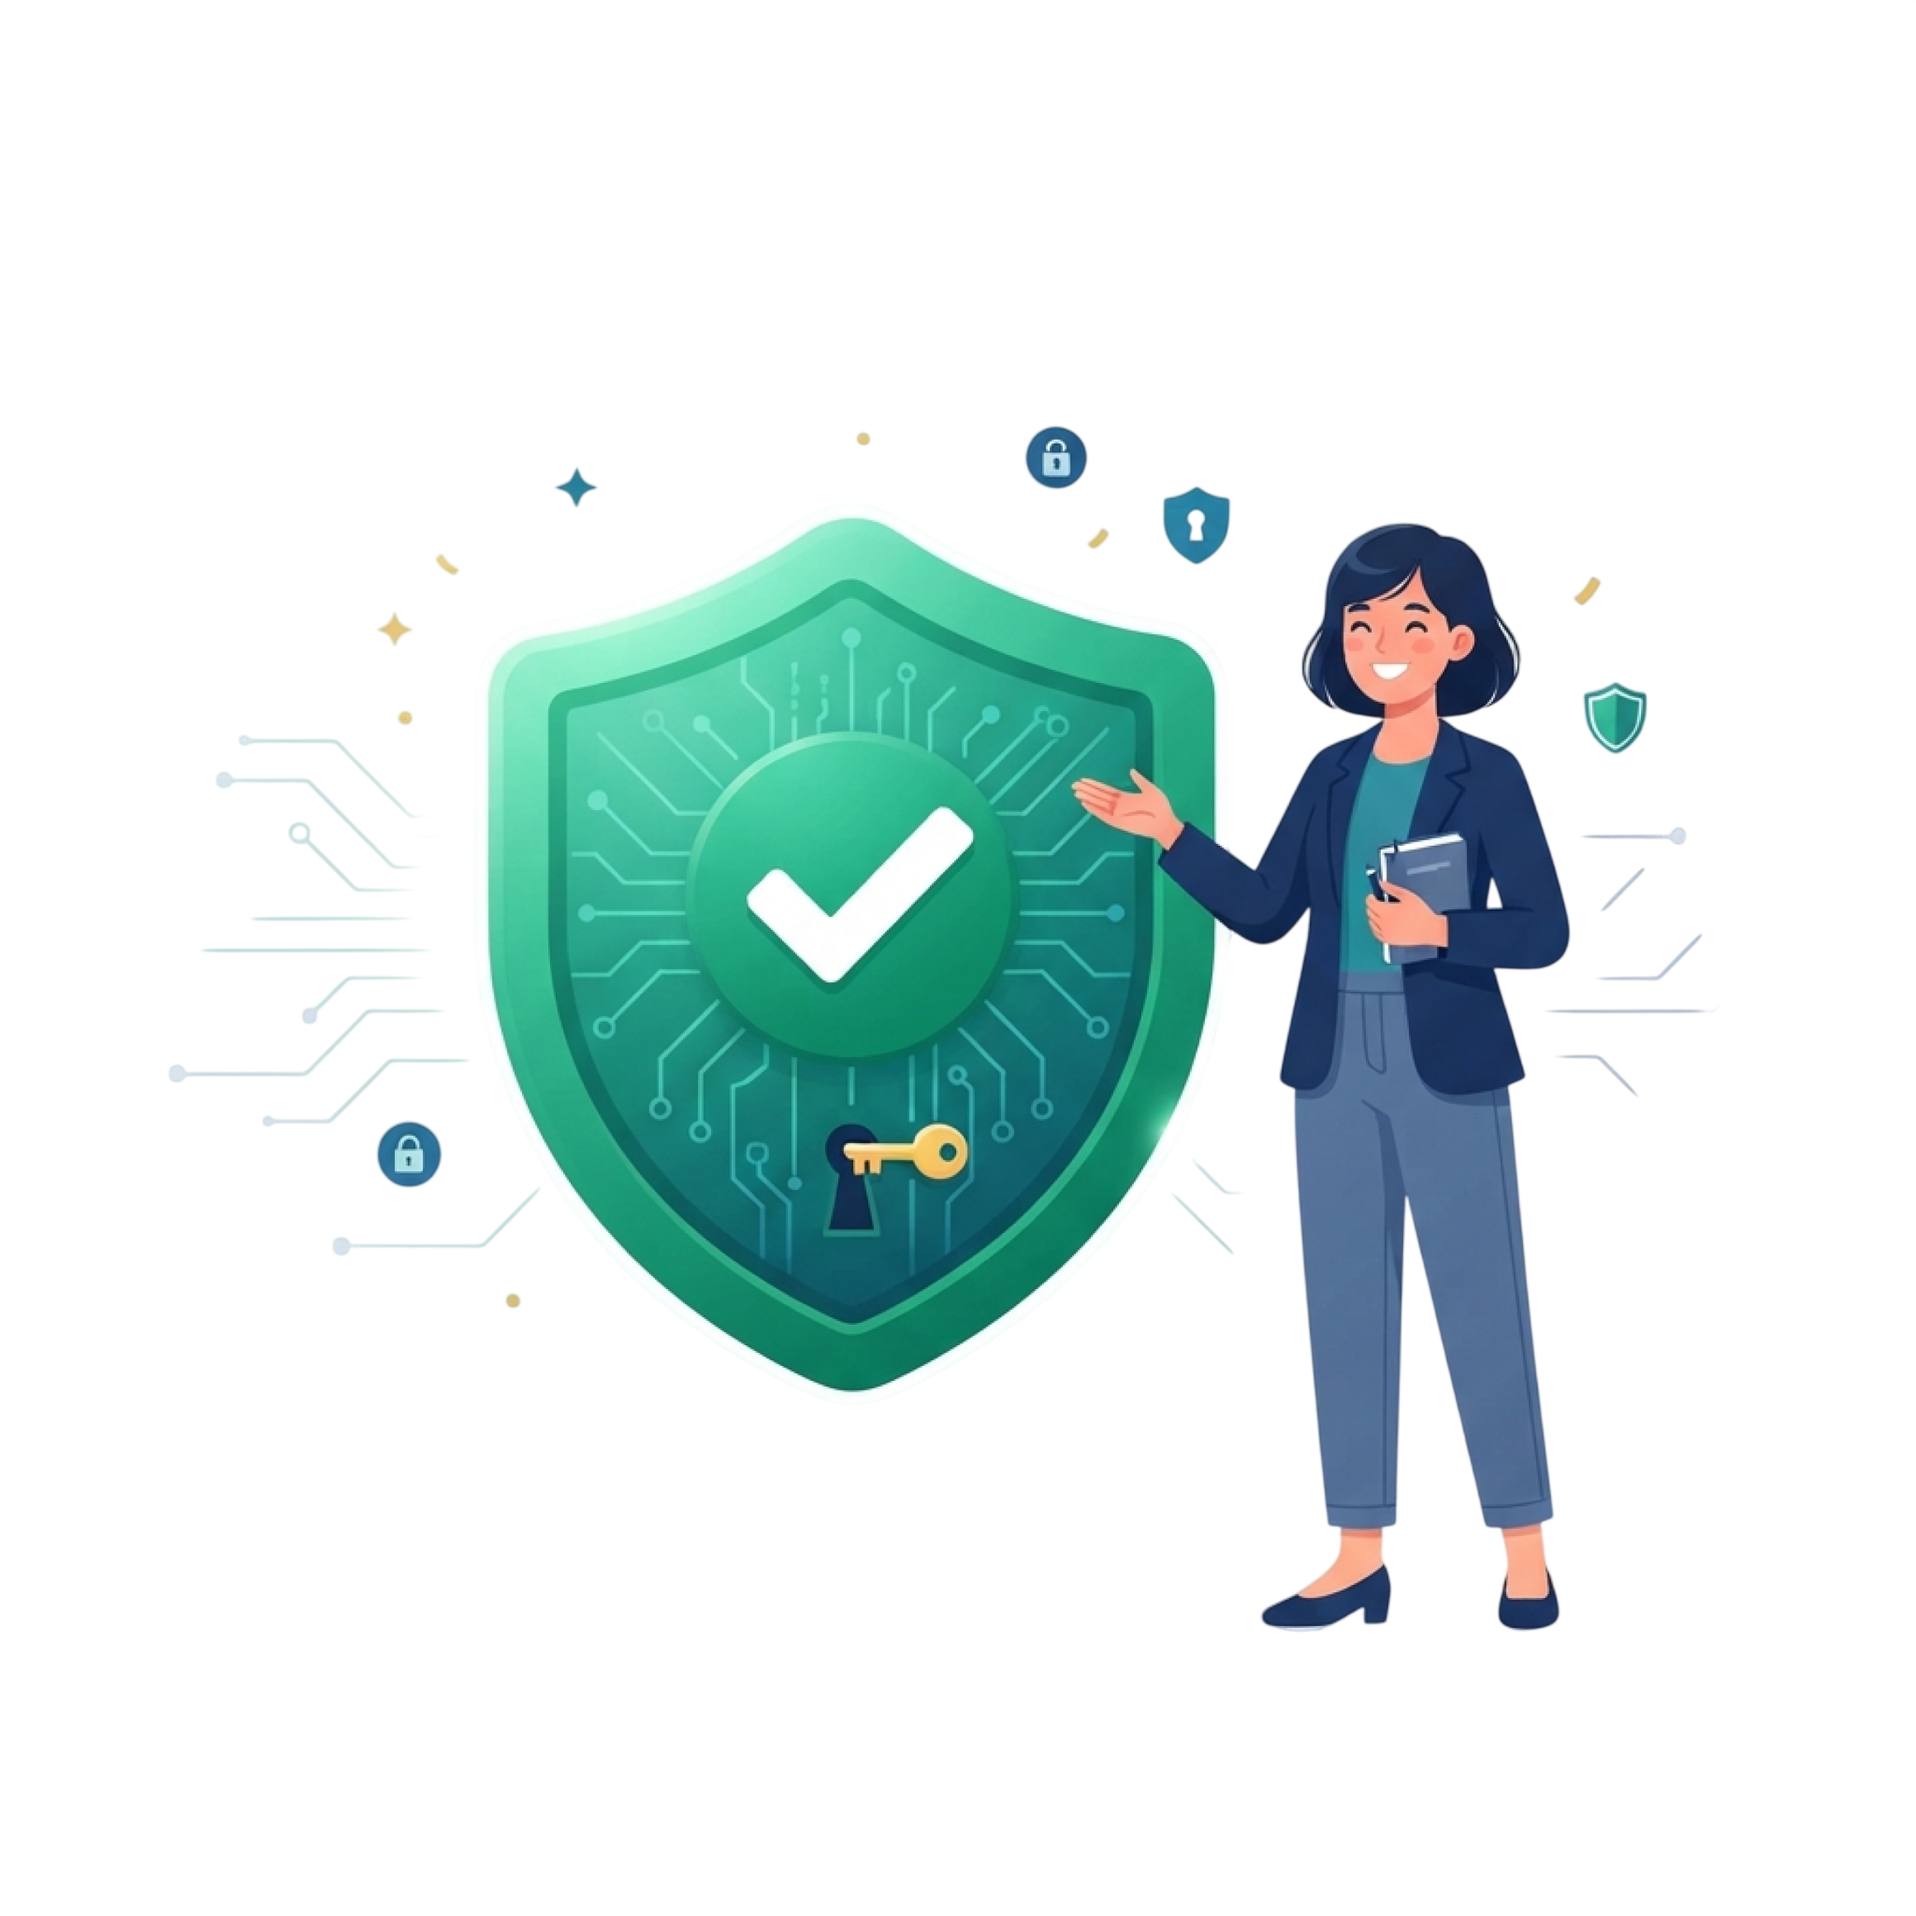
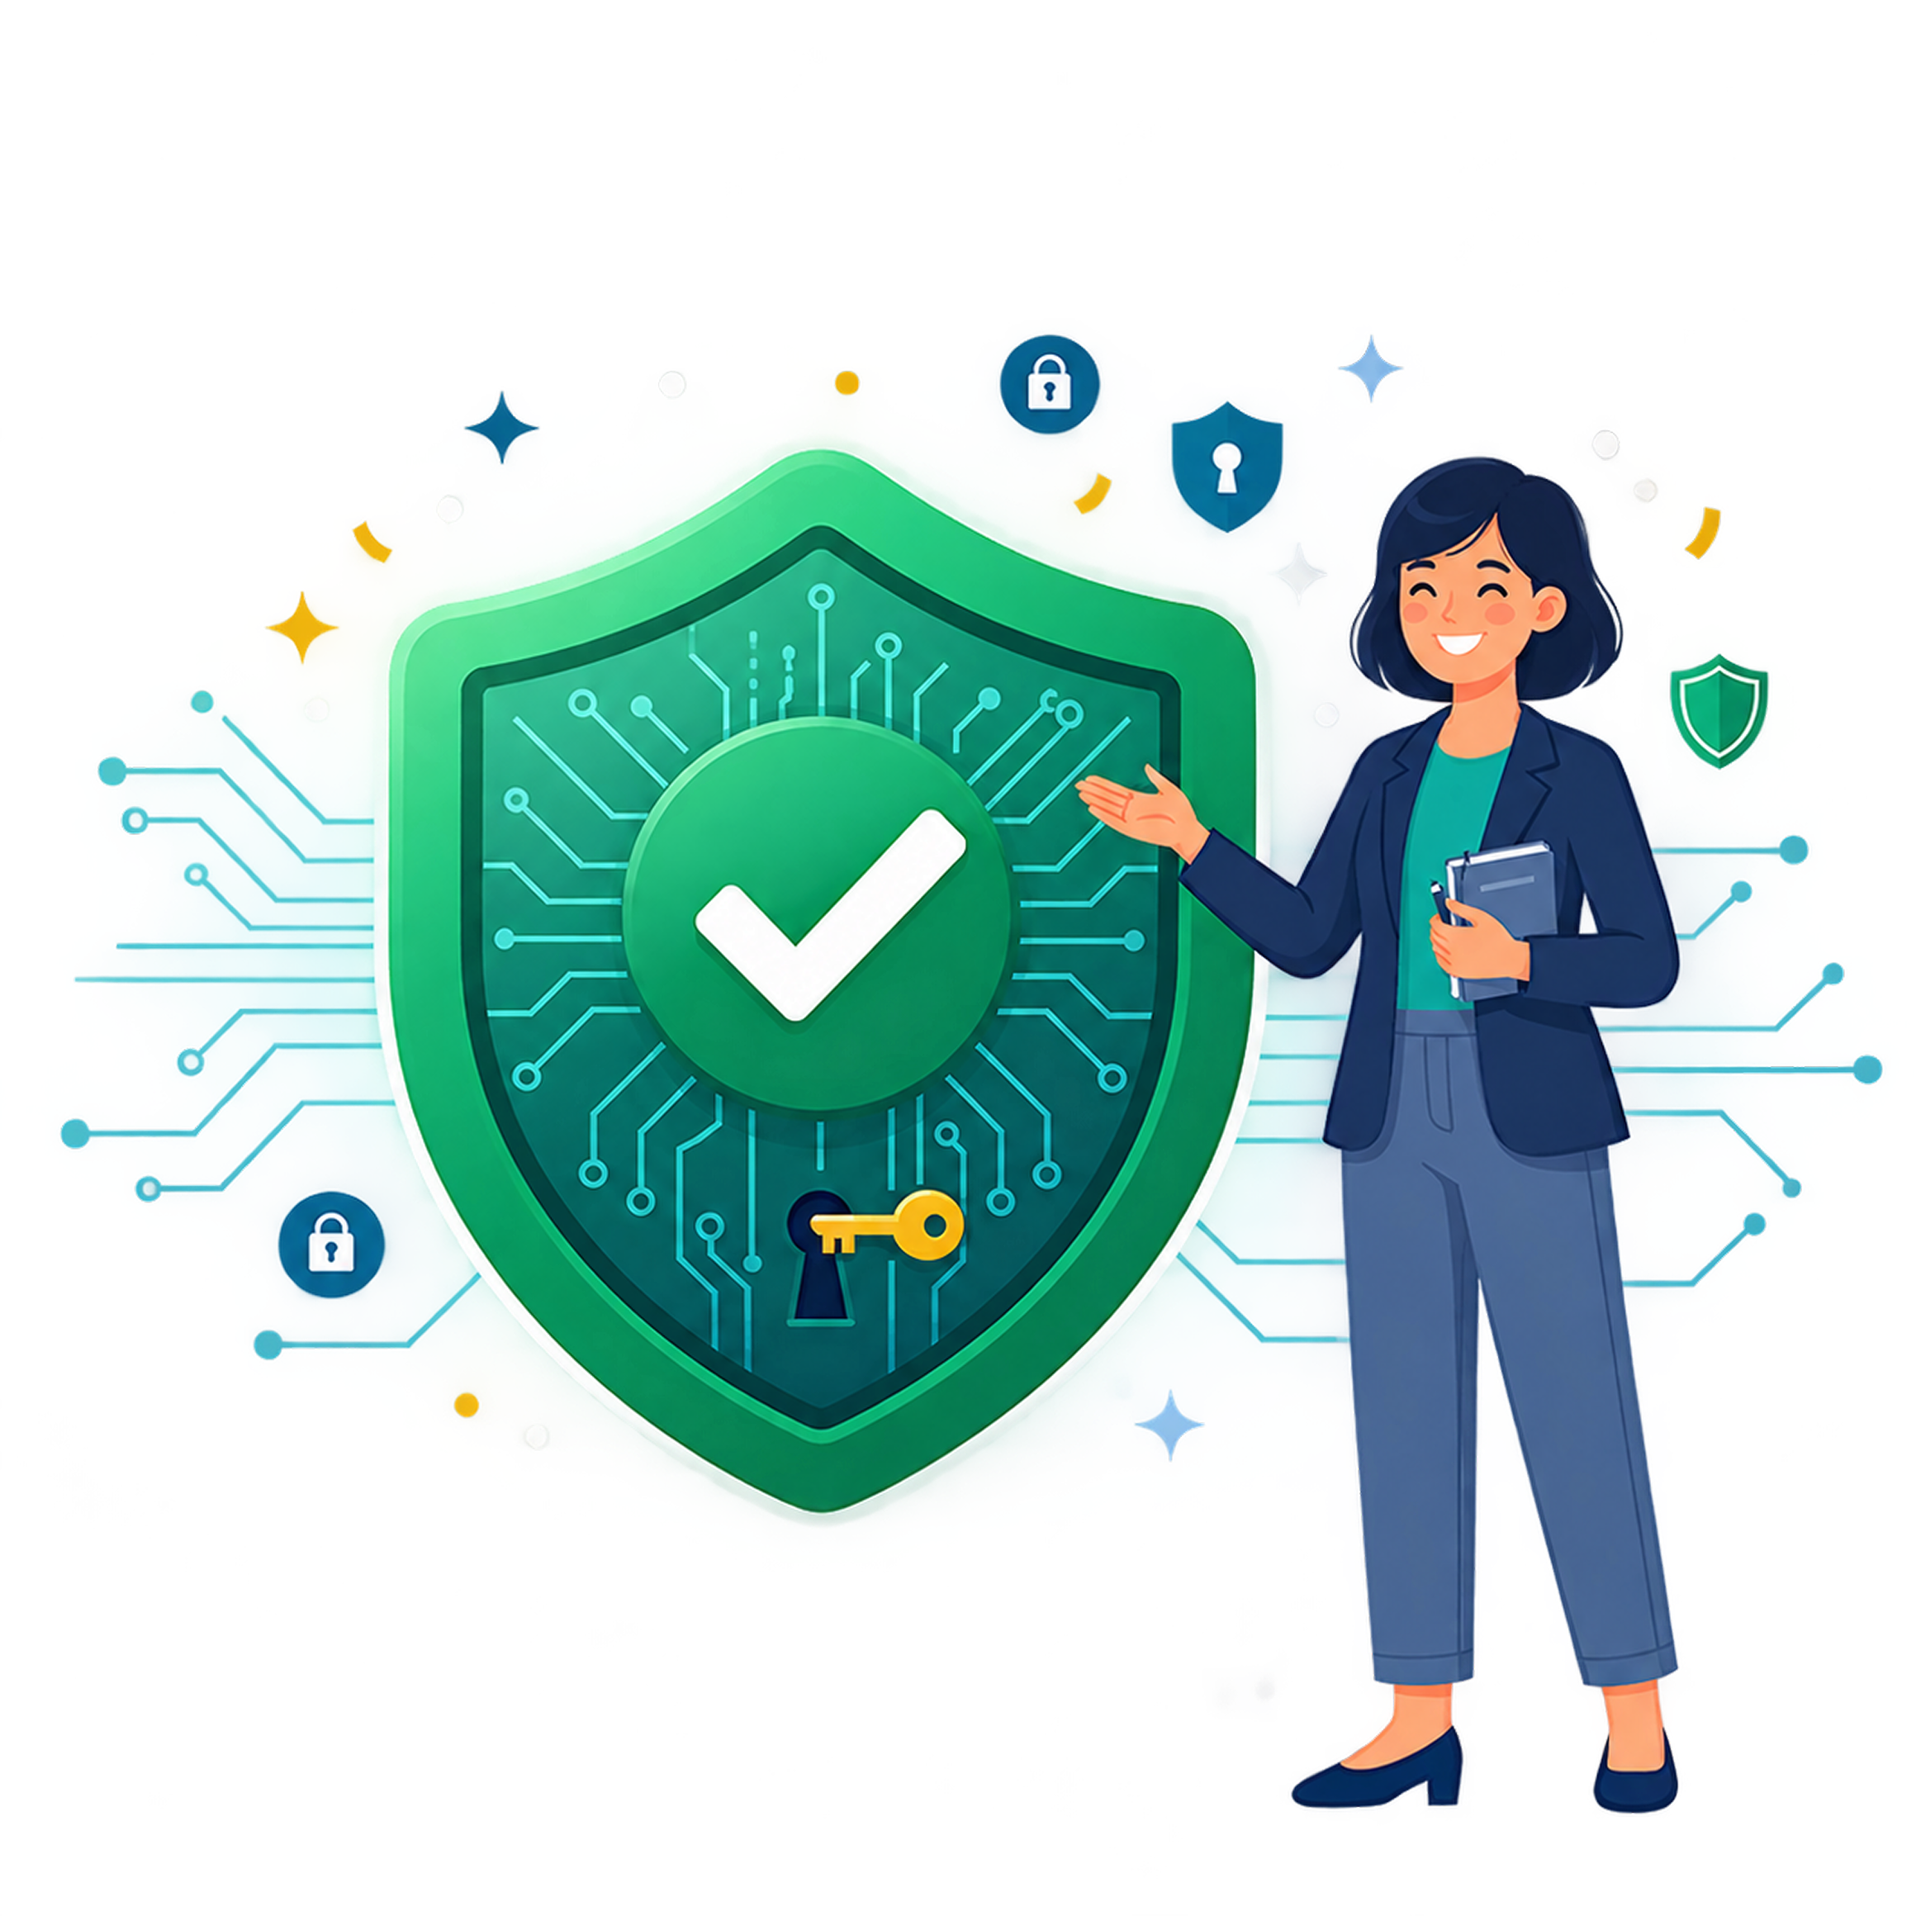
Add new Image

diff --git a/src/components-Auth/passwordResetSuccess.css b/src/components-Auth/passwordResetSuccess.css
@@ -1,17 +1,10 @@
-* {
-  box-sizing: border-box;
-  margin: 0;
-  padding: 0;
-}
-
-/*  MAIN CONTAINER LAYOUT  */
 .ims-passwordresetsuccess-page-wrapper {
-  width: 100vw;
+  width: 100%;
   height: 100vh;
   display: flex;
   align-items: center;
   justify-content: center;
- background: linear-gradient(270deg, #ffffff 35%, #566b94 93%);
+  background: linear-gradient(270deg, #ffffff 35%, #566b94 93%);
   overflow: hidden;
 }
 
@@ -25,7 +18,6 @@
   overflow: hidden;
 }
 
-/* LEFT SIDE VISUAL & BRAND SECTION  */
 .ims-passwordresetsuccess-left-section {
   flex: 1.15;
   height: 100%;
@@ -37,7 +29,6 @@
   position: relative;
 }
 
-/* Top Intro Block */
 .ims-passwordresetsuccess-left-intro-block {
   width: 100%;
   max-width: 760px;
@@ -46,7 +37,6 @@
   gap: clamp(10px, 1.5vh, 16px);
 }
 
-/* Logo and Header Layout */
 .ims-passwordresetsuccess-logo-header-group {
   display: flex;
   align-items: center;
@@ -110,7 +100,6 @@
   opacity: 0.9;
 }
 
-/* Headings Group */
 .ims-passwordresetsuccess-headline-group {
   width: 100%;
   display: flex;
@@ -138,7 +127,6 @@
   opacity: 0.92;
 }
 
-/* Illustration Container */
 .ims-passwordresetsuccess-illustration-container {
   flex: 1;
   min-height: 0;
@@ -167,10 +155,10 @@
   height: auto;
   max-height: clamp(220px, 36vh, 420px);
   object-fit: contain;
-  mix-blend-mode: multiply;
+  mix-blend-mode: normal;
+  filter: none;
 }
 
-/* Glass Card */
 .ims-passwordresetsuccess-glass-card {
   width: 100%;
   max-width: 708px;
@@ -241,7 +229,6 @@
   color: #777587;
 }
 
-/*  RIGHT SIDE CONTENT  */
 .ims-passwordresetsuccess-right-section {
   flex: 0.95;
   height: 100%;
@@ -249,7 +236,6 @@
   align-items: center;
   justify-content: center;
   padding: clamp(20px, 3vh, 40px) 40px;
-  /* background: #f9f9f9; */
 }
 
 .ims-passwordresetsuccess-success-panel {
@@ -257,102 +243,98 @@
   max-width: 560px;
   display: flex;
   flex-direction: column;
-  align-items: center;
-  gap: clamp(20px, 3vh, 32px);
+  align-items: flex-start;
+  gap: clamp(24px, 4vh, 40px);
 }
 
 .ims-passwordresetsuccess-success-card-body {
   width: 100%;
   display: flex;
   flex-direction: column;
-  align-items: center;
+  align-items: flex-start;
 }
 
-/* Green Circle Badge */
 .ims-passwordresetsuccess-check-mark-badge {
   width: 80px;
   height: 80px;
-  border-radius: 9999px;
-  background: #109d58;
+  border-radius: 50%;
+  background: #0ea252;
   display: flex;
   align-items: center;
   justify-content: center;
-  margin-top: 2px;
-  margin-bottom: clamp(18px, 2.5vh, 33px);
+  margin: 0 0 clamp(18px, 2.5vh, 28px) 0;
   flex-shrink: 0;
+  box-shadow: 0 10px 20px rgba(14, 162, 82, 0.25);
 }
 
 .ims-passwordresetsuccess-check-icon-container {
   width: 40px;
   height: 40px;
-  position: relative;
+  display: flex;
+  align-items: center;
+  justify-content: center;
 }
 
 .ims-passwordresetsuccess-check-icon-img {
-  width: 23.33px;
-  height: 16.67px;
-  position: absolute;
-  top: 11.67px;
-  left: 8.33px;
-  object-fit: contain;
+  width: 28px;
+  height: 28px;
+  display: block;
 }
 
-/* Content Below Badge */
 .ims-passwordresetsuccess-status-content-group {
   width: 100%;
   max-width: 421px;
   display: flex;
   flex-direction: column;
-  align-items: center;
+  align-items: flex-start;
   text-align: center;
   gap: 16px;
 }
 
-/* 256-Bit Pill */
 .ims-passwordresetsuccess-encryption-pill {
-  width: 302.8px;
-  height: 24.5px;
+  width: auto;
+  height: auto;
+  padding: 5px 12px;
   border-radius: 6px;
   background: #ecfdf5;
-  display: flex;
+  display: inline-flex;
   align-items: center;
-  position: relative;
+  justify-content: center;
+  gap: 6px;
+  position: static;
 }
 
 .ims-passwordresetsuccess-lock-icon-container {
   width: 14px;
   height: 14px;
-  position: absolute;
-  top: 5.25px;
-  left: 10px;
+  position: static;
+  display: flex;
+  align-items: center;
+  justify-content: center;
+  flex-shrink: 0;
 }
 
 .ims-passwordresetsuccess-lock-icon-img {
-  width: 9.33px;
-  height: 10.5px;
-  position: absolute;
-  top: 1.75px;
-  left: 2.33px;
-  object-fit: contain;
+  position: static;
+  width: 11px;
+  height: 12px;
 }
 
 .ims-passwordresetsuccess-encryption-pill-text {
-  width: 263px;
-  height: 17px;
-  position: absolute;
-  top: 4px;
-  left: 30px;
+  position: static;
+  width: auto;
+  height: auto;
   font-family: "Open Sans", sans-serif;
   font-weight: 700;
   font-size: 11px;
-  line-height: 16.5px;
+  line-height: 16px;
   letter-spacing: 0.55px;
   text-align: center;
   text-transform: uppercase;
   color: #109d58;
+  white-space: nowrap;
 }
 
-/* Titles & Text */
 .ims-passwordresetsuccess-status-title {
   width: 100%;
   font-family: "Open Sans", sans-serif;
@@ -367,6 +349,7 @@
 .ims-passwordresetsuccess-status-description {
   width: 100%;
   max-width: 380px;
+  align-self: flex-start;
   font-family: "Open Sans", sans-serif;
   font-weight: 400;
   font-size: 14px;
@@ -376,7 +359,6 @@
   color: #333334;
 }
 
-/* Back to Login Button */
 .ims-passwordresetsuccess-button-back-login {
   width: 100%;
   max-width: 560px;

diff --git a/src/components-Auth/passwordResetSuccess.jsx b/src/components-Auth/passwordResetSuccess.jsx
@@ -3,7 +3,7 @@ import "./PasswordResetSuccess.css";
 
 import logoImg from "../assets/logo.png";
 import heroIllustration from "../assets/Auth/passwordresetsuccess-hero-illustration.png";
-import checkIconImg from "../assets/Auth/passwordresetsuccess-check-icon.png";
+import checkIconImg from "../assets/Auth/white-check-icon.png";
 import lockIconImg from "../assets/Auth/lock-icon.png";
 import securityCardIconImg from "../assets/shield-icon.png";
 

diff --git a/src/components-Auth/RegistrationOTP.css b/src/components-Auth/RegistrationOTP.css
@@ -127,7 +127,10 @@
 
 .ims-registration-main-illustration {
   width: auto;
-  height: 500px;
+  max-width: 100%;
+  height: auto;
+  max-height: clamp(280px, 45vh, 520px);
+  object-fit: contain;
 }
 
 /* Glassmorphic Card  */

diff --git a/src/App.jsx b/src/App.jsx
@@ -23,10 +23,6 @@ const router = createBrowserRouter([
     path:"/reset-password",
     element:<ResetPassword/>
   },
-  {
-    path: "*",
-    element: <Navigate to="/" replace />,
-  },
 ]);
 
 function App() {
